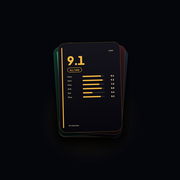
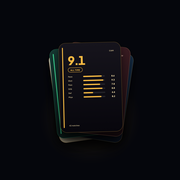
Fan the launcher cards a little so the stack reads as a spread.
The sheets keep the dark field and still sit inside the icon mask.

diff --git a/scripts/icon-source.html b/scripts/icon-source.html
@@ -42,6 +42,11 @@
     transform-origin: center center;
   }
   .intro-fut { --w: 198px; margin-top: -142px; }
+  .intro-fut-1 { --rest: translate3d(-16px, 8px, 0) rotateZ(-8deg) rotateX(2deg); }
+  .intro-fut-2 { --rest: translate3d(22px, 6px, 0) rotateZ(9deg) rotateX(3deg); }
+  .intro-fut-3 { --rest: translate3d(-18px, -4px, 0) rotateZ(-6deg) rotateX(3deg); }
+  .intro-fut-4 { --rest: translate3d(18px, -10px, 0) rotateZ(6deg) rotateX(3deg); }
+  .intro-fut-5 { --rest: translate3d(2px, -16px, 0) rotateZ(-1.5deg) rotateX(2deg); }
   .intro-sheet-top span:first-child { visibility: hidden; }
 </style>
 </head>

diff --git a/js/version.js b/js/version.js
@@ -1,2 +1,2 @@
 // Keep in sync with android/app/build.gradle versionName.
-window.FFK_VERSION = '1.2.71';
+window.FFK_VERSION = '1.2.72';

diff --git a/sw.js b/sw.js
@@ -1,4 +1,4 @@
-const CACHE = 'ffk_v153';
+const CACHE = 'ffk_v154';
 const ASSETS = [
   './',
   './index.html',
